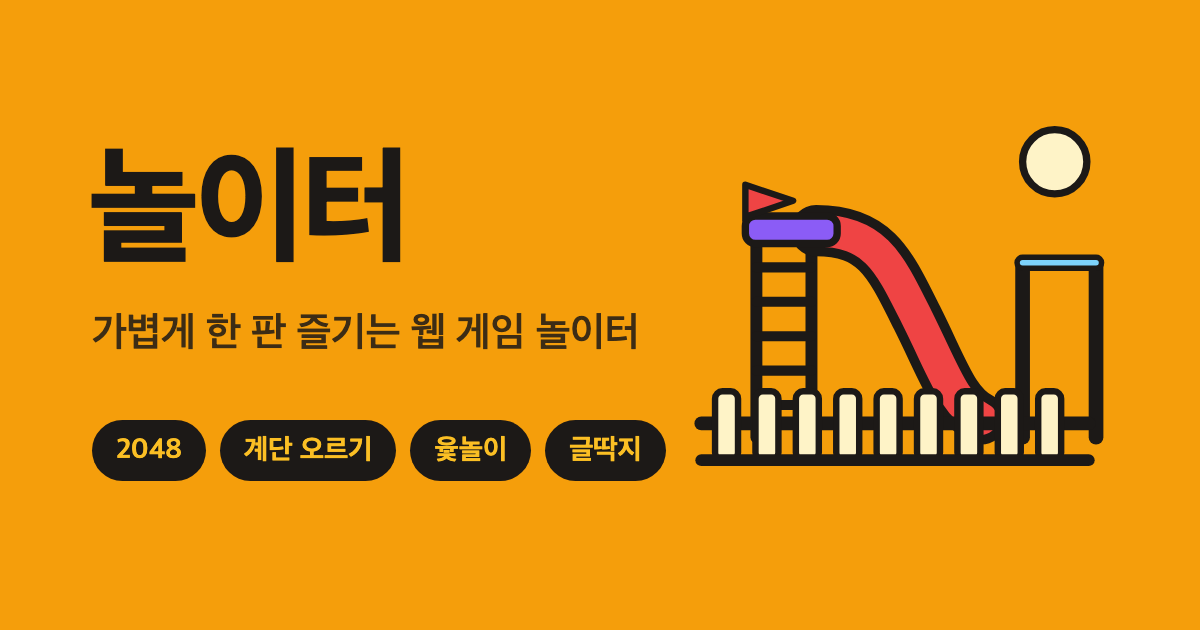
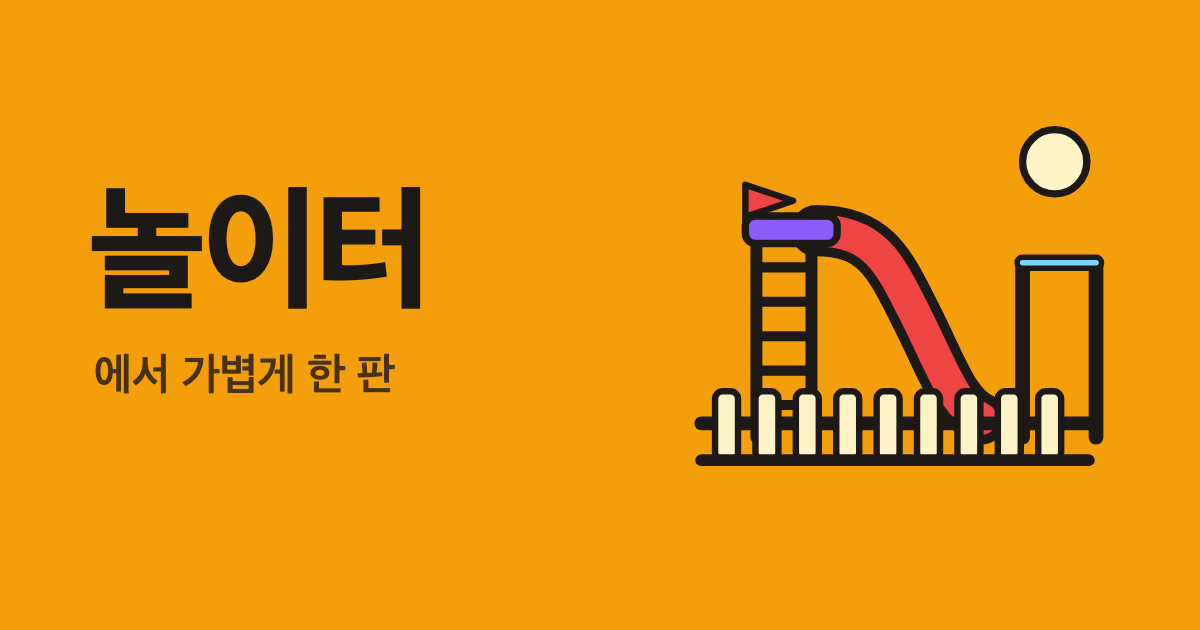
OG 문구를 '놀이터에서 가볍게 한 판' 으로, 게임 화면에 홈 버튼
Claude-Session: https://claude.ai/code/session_01CPhyj2Vt1eGTvisguqr1Nz

Changed region(s): [[0.0617, 0.2111, 0.555, 0.6333], [0.0617, 0.6635, 0.555, 0.7841]]

diff --git a/index.html b/index.html
@@ -9,12 +9,12 @@
     <meta name="theme-color" content="#1c1917" />
     <meta name="apple-mobile-web-app-capable" content="yes" />
     <meta name="apple-mobile-web-app-status-bar-style" content="black-translucent" />
-    <meta name="description" content="가볍게 한 판 즐기는 웹 게임 놀이터. 2048, 계단 오르기, 윷놀이, 글딱지." />
+    <meta name="description" content="놀이터에서 가볍게 한 판" />
     <!-- 카톡·슬랙 링크 미리보기. 주소는 빌드 환경(VITE_SITE_URL)에 따라 dev/prod 로 바뀐다 -->
     <meta property="og:type" content="website" />
     <meta property="og:site_name" content="놀이터" />
     <meta property="og:title" content="놀이터" />
-    <meta property="og:description" content="가볍게 한 판 즐기는 웹 게임 놀이터. 2048, 계단 오르기, 윷놀이, 글딱지." />
+    <meta property="og:description" content="놀이터에서 가볍게 한 판" />
     <meta property="og:url" content="%VITE_SITE_URL%/" />
     <meta property="og:image" content="%VITE_SITE_URL%/og.png" />
     <meta property="og:image:width" content="1200" />
@@ -22,7 +22,7 @@
     <meta property="og:locale" content="ko_KR" />
     <meta name="twitter:card" content="summary_large_image" />
     <meta name="twitter:title" content="놀이터" />
-    <meta name="twitter:description" content="가볍게 한 판 즐기는 웹 게임 놀이터. 2048, 계단 오르기, 윷놀이, 글딱지." />
+    <meta name="twitter:description" content="놀이터에서 가볍게 한 판" />
     <meta name="twitter:image" content="%VITE_SITE_URL%/og.png" />
     <link rel="icon" type="image/svg+xml" href="/favicon.svg" />
     <link rel="manifest" href="/manifest.webmanifest" />

diff --git a/src/components/HomeButton.tsx b/src/components/HomeButton.tsx
@@ -1,0 +1,19 @@
+import { Link } from 'react-router-dom'
+
+/** 게임 화면에서 홈까지 뒤로가기 두 번은 불편해서 바로 가는 버튼 */
+export function HomeButton() {
+  return (
+    <Link to="/" className="icon-btn play-home" aria-label="홈으로" title="홈으로">
+      <svg viewBox="0 0 24 24" width="20" height="20" aria-hidden>
+        <path
+          fill="none"
+          stroke="currentColor"
+          strokeWidth="2"
+          strokeLinecap="round"
+          strokeLinejoin="round"
+          d="M3 11.5 12 4l9 7.5M5.5 10v10h13V10M10 20v-6h4v6"
+        />
+      </svg>
+    </Link>
+  )
+}

diff --git a/src/pages/Play.tsx b/src/pages/Play.tsx
@@ -6,6 +6,7 @@ import { getBestScore, setBestScore } from '../lib/storage'
 import { useActivity } from '../auth/useAuth'
 import { recordPlay } from '../lib/auth'
 import { FullscreenButton } from '../components/FullscreenButton'
+import { HomeButton } from '../components/HomeButton'
 
 export function Play() {
   const { gameId } = useParams()
@@ -61,6 +62,7 @@ export function Play() {
             BEST <b>{best}</b>
           </span>
         )}
+        <HomeButton />
         <FullscreenButton />
       </div>
       <Component host={host} />

diff --git a/src/index.css b/src/index.css
@@ -3189,7 +3189,8 @@ button.room-me {
 }
 
 /* 큰 화면: 게임판을 창 크기에 맞춰 키운다 (피드백: 화면 비율 조정) */
-.play-fullscreen {
+.play-fullscreen,
+.play-home {
   margin-left: 4px;
 }
 @media (min-width: 720px) {
